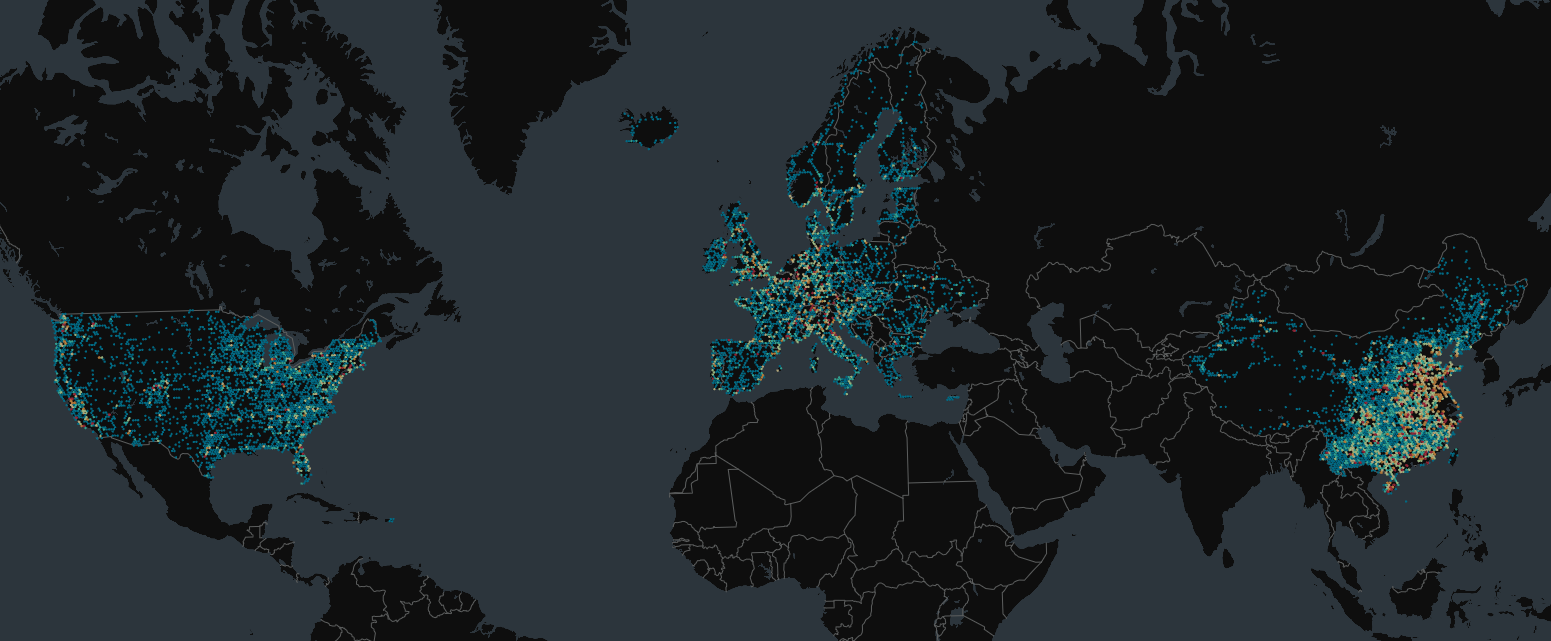
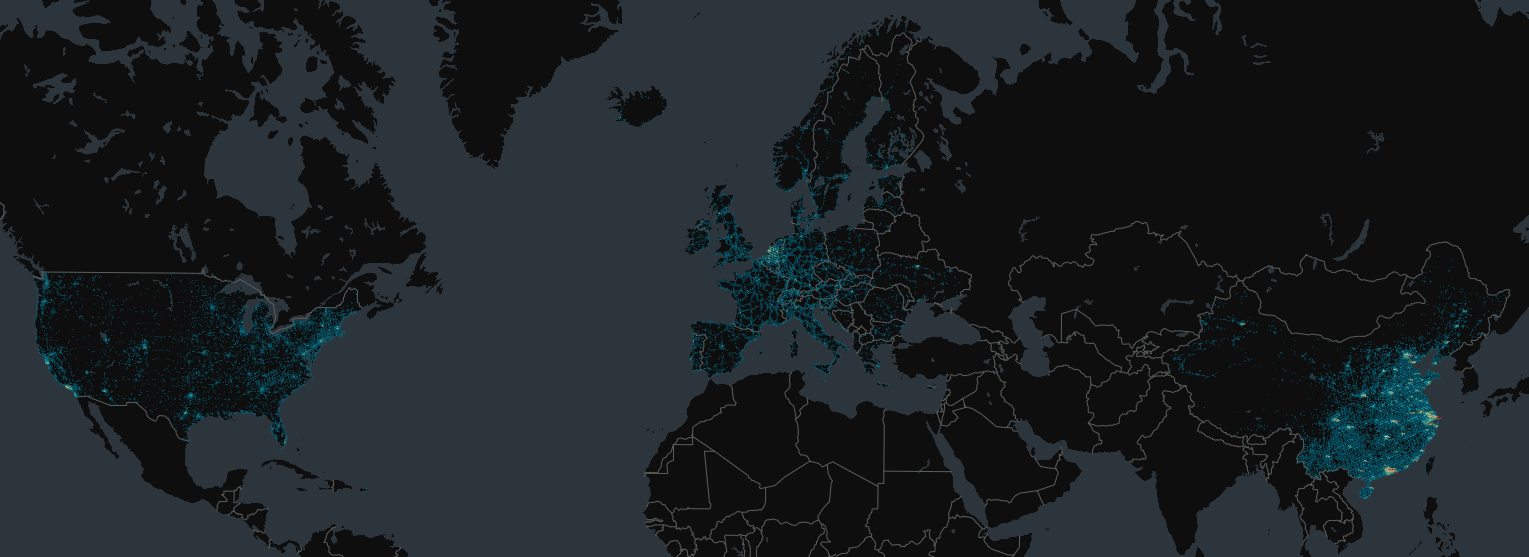
fix: 更新2024年全球公共电动汽车充电站数据，替换图片和订阅链接

diff --git a/News/2025-3-19.md b/News/2025-3-19.md
@@ -8,7 +8,7 @@ type: news
 
 We are glad to share the Global Public Electric Vehicle Charging Station Data in 2024, which contain public EV charging station locations in the US, China and Europe. 
 
-![Global Public Electric Vehicle Charging Station Data in 2024](./imgs/3.png)
+![Global Public Electric Vehicle Charging Station Data in 2024](./imgs/1.png)
 > *Global Public Electric Vehicle Charging Station Distribution in 2024*
 
 - For the US, we collected the location data of 69,677 EVCSs (with a sample rate of around 100%) from the Alternative Fuels Data Center.

diff --git a/data.md b/data.md
@@ -1,6 +1,6 @@
 # Data Sets
 
-> - [Subscribe](https://docs.google.com/forms/d/e/1FAIpQLSee3mhBgstlslpNp1UDsA4isU6-iz9m7eFLyJQVAOQuAHwDQg/viewform?usp=dialog) to receive the latest data updates.
+> - [Subscribe](https://forms.office.com/Pages/ResponsePage.aspx?id=DQSIkWdsW0yxEjajBLZtrQAAAAAAAAAAAAMAAYrjOiZUNFdHUDFRQ0hZSFJLRTY5VEJKTE1GVllTOS4u) to receive the latest data updates.
 
 ## 1. Global Public Electric Vehicle Charging Station (EVCS) Data in 2024
 
